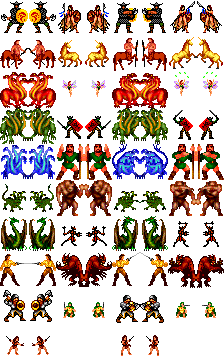
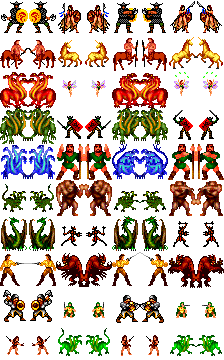
Re-add old baby hydra graphic, make more monsters pickable

Changed region(s): [[0.25, 0.9167, 0.5, 1.0], [0.75, 0.9167, 1.0, 1.0]]

diff --git a/src/gfx/gfxsheets.cpp b/src/gfx/gfxsheets.cpp
@@ -200,5 +200,6 @@ extern const std::vector<m_pic_index_t> m_pic_index = {
 	{181, 1, 1}, {182, 1, 1}, {183, 1, 1}, {184, 1, 1}, {185, 1, 1},
 	{186, 1, 1}, {187, 1, 1}, {188, 1, 1}, {189, 1, 1}, {190, 1, 1},
 	{191, 1, 1}, {192, 1, 1}, {193, 1, 1}, {194, 1, 1}, {195, 1, 1},
-	{196, 1, 1}, {197, 1, 1}, {198, 1, 1},
+	{196, 1, 1}, {197, 1, 1}, {198, 1, 1}, {199, 1, 1}, {200, 1, 1},
+	{201, 1, 1}, {202, 1, 1}, {203, 1, 1}, {204, 1, 1},
 };

diff --git a/src/scenedit/scen.keydlgs.cpp b/src/scenedit/scen.keydlgs.cpp
@@ -372,7 +372,6 @@ pic_num_t choose_graphic(short cur_choice,ePicType g_type,cDialog* parent, bool 
 		case PIC_MONST_TALL: case PIC_MONST_LG:
 			std::vector<std::pair<pic_num_t,ePicType>> pics;
 			for(m_pic_index_t m_pic : m_pic_index) {
-				// TODO: Put the added monster graphics in m_pic_index to allow picking them
 				ePicType type = PIC_MONST;
 				if(m_pic.x == 2) type += PIC_WIDE;
 				if(m_pic.y == 2) type += PIC_TALL;
